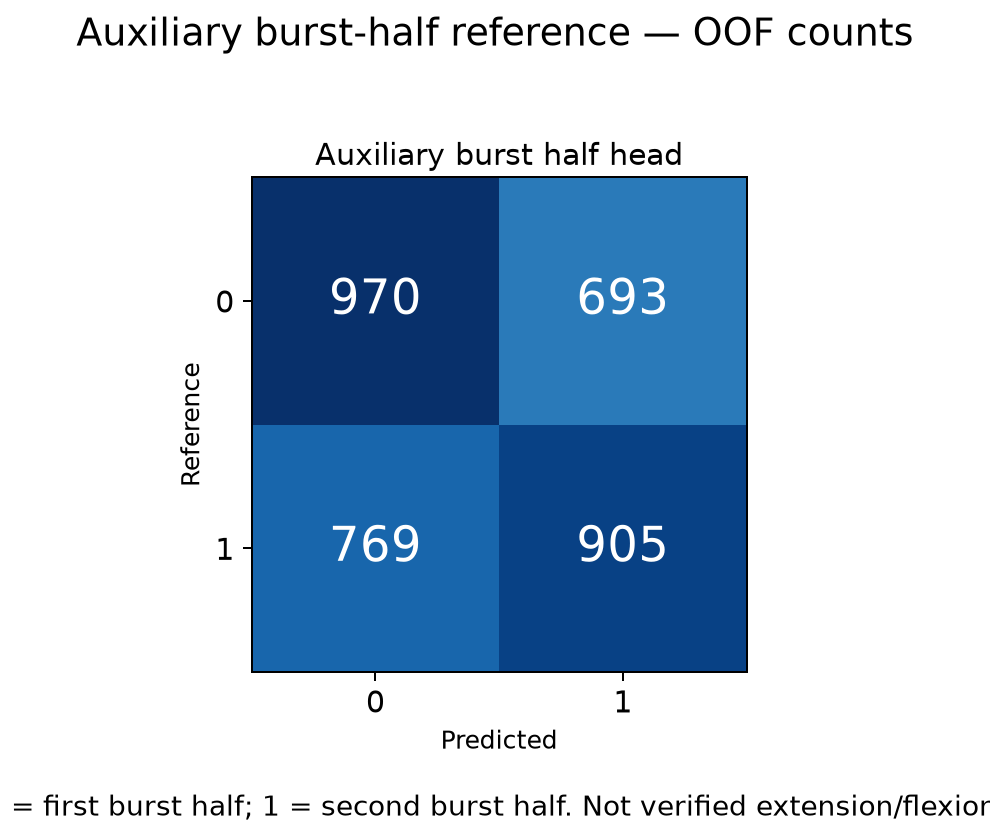
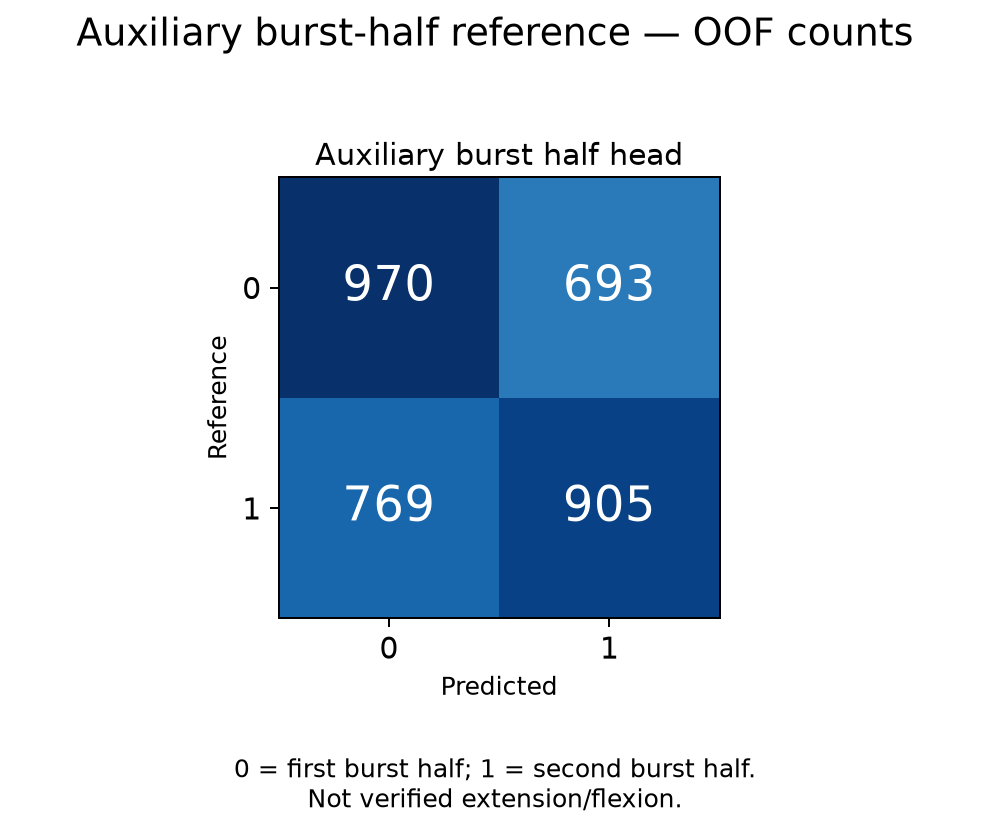
Keep auxiliary class legends readable in report and slides

diff --git a/tools/build_manuscript.py b/tools/build_manuscript.py
@@ -285,7 +285,7 @@ if args.include_phase:
     p('The auxiliary head uses 100 RF trees, depth 3 and minimum leaf 5. The primary final artifact uses 300 RF trees, depth 3 and minimum leaf 2. Both use balanced weights but learn different targets. The primary nested selector chooses one family internally; it is not an ensemble vote. The full-cohort final fit supplies a reloadable artifact and no additional OOF performance estimate.')
     doc.add_page_break();h('Appendix D Model relationships',2)
     figure('phase/model_relationships.png','Figure D2. Six principal evaluation procedures, five supplemental configurations, auxiliary phase supervision and the separate full-cohort primary artifact. Supplemental baseline_10 duplicates the primary logistic_all prediction procedure, so it is a matched reference rather than independent corroboration.')
-    table(['Variant','Stage 2 input','Purpose'],[['baseline_10','Original 10 features','Matched direct reference'],['phase_score','10 features plus phase score','Cascade without interactions'],['phase_conditioned','10 plus score plus score×RMS/MDF/MNF','Principal exploratory variant'],['phase_only','Only phase score','Bottleneck diagnostic'],['random_conditioned','Same conditioned input; random auxiliary labels','One capacity control']])
+    table(['Variant','Stage 2 input','Purpose'],[['baseline_10','Original 10 features','Matched direct reference'],['phase_score','10 features plus phase score','Cascade without interactions'],['phase_conditioned','10 plus score; interactions with RMS, MDF, MNF','Principal exploratory variant'],['phase_only','Only phase score','Bottleneck diagnostic'],['random_conditioned','Same conditioned input; random auxiliary labels','One capacity control']])
     p('All logit variants select C=0.1/1/10 by four grouped inner folds. Stage 1 uses three-fold cross-fitting within each inner-training set and four-fold cross-fitting in the final outer-training set. Audits preserve 278 distinct auxiliary fits and 645 requests, checking disjoint train/test groups and membership in parent training groups. There are 75 supplemental model×fold rows and 27,545 second-stage OOF rows. Baseline predicted classes match exactly; maximum score difference is 5.10e-13. Reconstructed auxiliary predictions reproduce their original group metrics.')
     doc.add_page_break();h('Appendix E Confusions for primary procedures')
     p('Rows are reference and columns are prediction. Classes 0/1 mean early/late proxy. Each procedure has 2,329 early and 3,180 late windows; repeated procedures do not multiply the biological sample size. Pooled confusion counts describe error totals; principal uncertainty remains between held-out groups.')

diff --git a/experiments/phase_proxy/evidence.py b/experiments/phase_proxy/evidence.py
@@ -105,9 +105,9 @@ def draw_confusions(table,models,path,title,normalized=False,auxiliary=False):
         ax.set_title(NAMES[model],fontsize=12,pad=5);ax.set_xlabel('Predicted',fontsize=10);ax.set_ylabel('Reference',fontsize=10)
     for ax in axes.ravel()[len(models):]:ax.set_visible(False)
     fig.suptitle(title,fontsize=15)
-    legend='0 = first burst half; 1 = second burst half. Not verified extension/flexion.' if auxiliary else '0 = early proxy; 1 = late proxy. Not independent physiological fatigue labels.'
-    fig.text(.5,.015,legend,ha='center',fontsize=11)
-    fig.tight_layout(rect=[0,.055,1,.94]);fig.savefig(path,dpi=180);plt.close(fig)
+    legend='0 = first burst half; 1 = second burst half.\nNot verified extension/flexion.' if auxiliary else '0 = early proxy; 1 = late proxy. Not independent physiological fatigue labels.'
+    fig.text(.5,.025 if auxiliary else .015,legend,ha='center',fontsize=10 if auxiliary else 11)
+    fig.tight_layout(rect=[0,.12 if auxiliary else .055,1,.94]);fig.savefig(path,dpi=180);plt.close(fig)
 
 
 def architecture(path):
